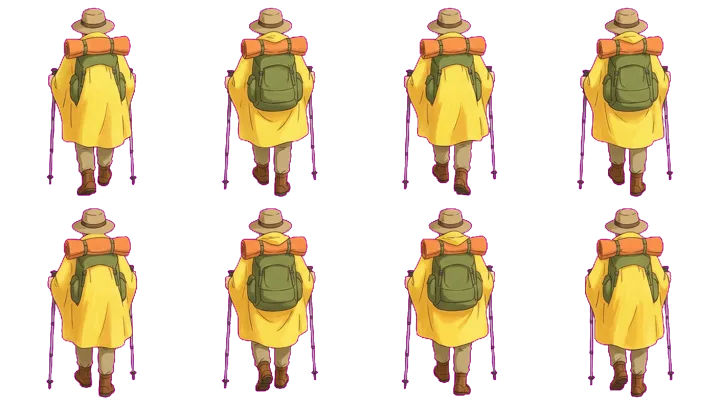
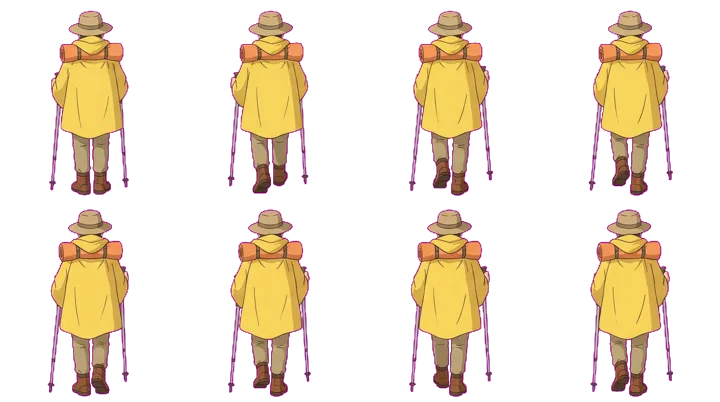
一般走路換回八格（重畫成正背面、身體不轉向，含雨天版）；版本 74

diff --git a/js/trail.js b/js/trail.js
@@ -143,8 +143,8 @@ const GAIT = {
   fade:0.25                             // 換圖時兩張交叉淡換幾秒（不會一下子跳成另一張）
 };
 // 走路圖的高度修正：每張圖量「帽頂到鞋底」佔整格多高（量出來都在 97～100%），用一般走路圖當基準換算，換圖時人不會忽大忽小。重畫了圖要重新量
-// 一般走路只用正背面的四格圖：八格版有 6 格身體往右轉，直路上看起來斜著走（換成正背面重畫的八格圖再改回來）
-const WALK_DRY = 'hiker_walk', WALK_RAIN = 'hiker_rain_walk';
+// 一般走路：正背面重畫的八格圖（舊的八格版身體往右轉，已換掉）；八格圖沒載入時用四格圖
+const WALK_DRY = 'hiker_walk8', WALK_RAIN = 'hiker_rain_walk8';
 const GAIT_H = { hiker_walk:1, hiker_rain_walk:1, hiker_walk8:1, hiker_rain_walk8:1, hiker_stairs8:1, hiker_rain_stairs8:0.995, hiker_tired_walk8:1, hiker_rain_tired_walk8:1.013, hiker_turn_walk8:1.005 };
 const gait = { act:null, at:0, dur:0, aflip:false, sid:'', sf:false, tB:90, tH:90, tI:140, lookM:-1, lvl:0, pace:1, mode:'walk', modeT:9, modeF:false, bendT:0, tired:false, cur:'', curF:false, prev:'', prevF:false, k:1 };
 const parts = [], flyers = []; let pIdx = 0;
@@ -1367,7 +1367,7 @@ function rainy(id){ const r = RAIN_OF[id]; return isRain && r && ART.get(r) ? r 
 function gaitSheet(){
   gait.sf = false;
   if (gait.act) { gait.sid = gait.act; gait.sf = gait.aflip; return; }
-  // 一般走路：正背面四格圖（WALK_DRY／WALK_RAIN），下雨天穿黃色雨衣
+  // 一般走路：正背面八格圖（WALK_DRY／WALK_RAIN），下雨天穿黃色雨衣
   const walk = isRain && ART.get(WALK_RAIN) ? WALK_RAIN : WALK_DRY;
   // 階梯、累了：重畫成正背面直直走的版本（雨天換雨衣版）；彎道：轉身圖（往右前方，左彎鏡射），沒有雨衣版所以雨天照舊一般走路
   const m = gait.mode, id = m === 'stairs' ? rainy('hiker_stairs8') : m === 'tired' ? rainy('hiker_tired_walk8') : m === 'turn' && !isRain ? 'hiker_turn_walk8' : null;

diff --git a/index.html b/index.html
@@ -12,7 +12,7 @@
 <link rel="preconnect" href="https://fonts.googleapis.com">
 <link rel="preconnect" href="https://fonts.gstatic.com" crossorigin>
 <link href="https://fonts.googleapis.com/css2?family=Iansui&family=LXGW+WenKai+TC&display=swap" rel="stylesheet">
-<link rel="stylesheet" href="css/style.css?v=73">
+<link rel="stylesheet" href="css/style.css?v=74">
 </head>
 <body>
 <div id="app">
@@ -91,19 +91,19 @@
   <input type="file" id="upFile" accept="image/*" hidden>
 </div>
 
-<script src="js/data.js?v=73"></script>
-<script src="js/motion.js?v=73"></script>
-<script src="js/audio.js?v=73"></script>
-<script src="js/clay.js?v=73"></script>
-<script src="js/art.js?v=73"></script>
-<script src="js/gl2d.js?v=73"></script>
-<script src="js/trail.js?v=73"></script>
-<script src="js/worldmap.js?v=73"></script>
-<script src="js/hud.js?v=73"></script>
-<script src="js/game.js?v=73"></script>
-<script src="js/config.js?v=73"></script>
-<script src="js/plaza.js?v=73"></script>
-<script src="js/social.js?v=73"></script>
+<script src="js/data.js?v=74"></script>
+<script src="js/motion.js?v=74"></script>
+<script src="js/audio.js?v=74"></script>
+<script src="js/clay.js?v=74"></script>
+<script src="js/art.js?v=74"></script>
+<script src="js/gl2d.js?v=74"></script>
+<script src="js/trail.js?v=74"></script>
+<script src="js/worldmap.js?v=74"></script>
+<script src="js/hud.js?v=74"></script>
+<script src="js/game.js?v=74"></script>
+<script src="js/config.js?v=74"></script>
+<script src="js/plaza.js?v=74"></script>
+<script src="js/social.js?v=74"></script>
 <script>if ("serviceWorker" in navigator) addEventListener("load", () => navigator.serviceWorker.register("sw.js").catch(() => {}));</script>
 </body>
 </html>

diff --git a/sw.js b/sw.js
@@ -1,7 +1,7 @@
 // 山行小日子：離線快取。程式與頁面「先抓網路、失敗才用快取」，所以更新會馬上生效；音樂圖示則先用快取。
 // 兩個快取：CACHE 放程式和頁面，每次改版換新名字；ART_CACHE 放美術圖和聲音，名字永遠不變，改版也不清掉，
 // 玩家只會下載有換過的圖和新圖（美術圖網址帶 ?v=檔案指紋，圖換了網址才會變）。
-const CACHE = 'shanxing-v73';
+const CACHE = 'shanxing-v74';
 const ART_CACHE = 'shanxing-art';
 const isArt = u => /\/(audio|art)\//.test(u.pathname) && !/manifest\.json$/.test(u.pathname);
 self.addEventListener('install', e => { self.skipWaiting(); });
